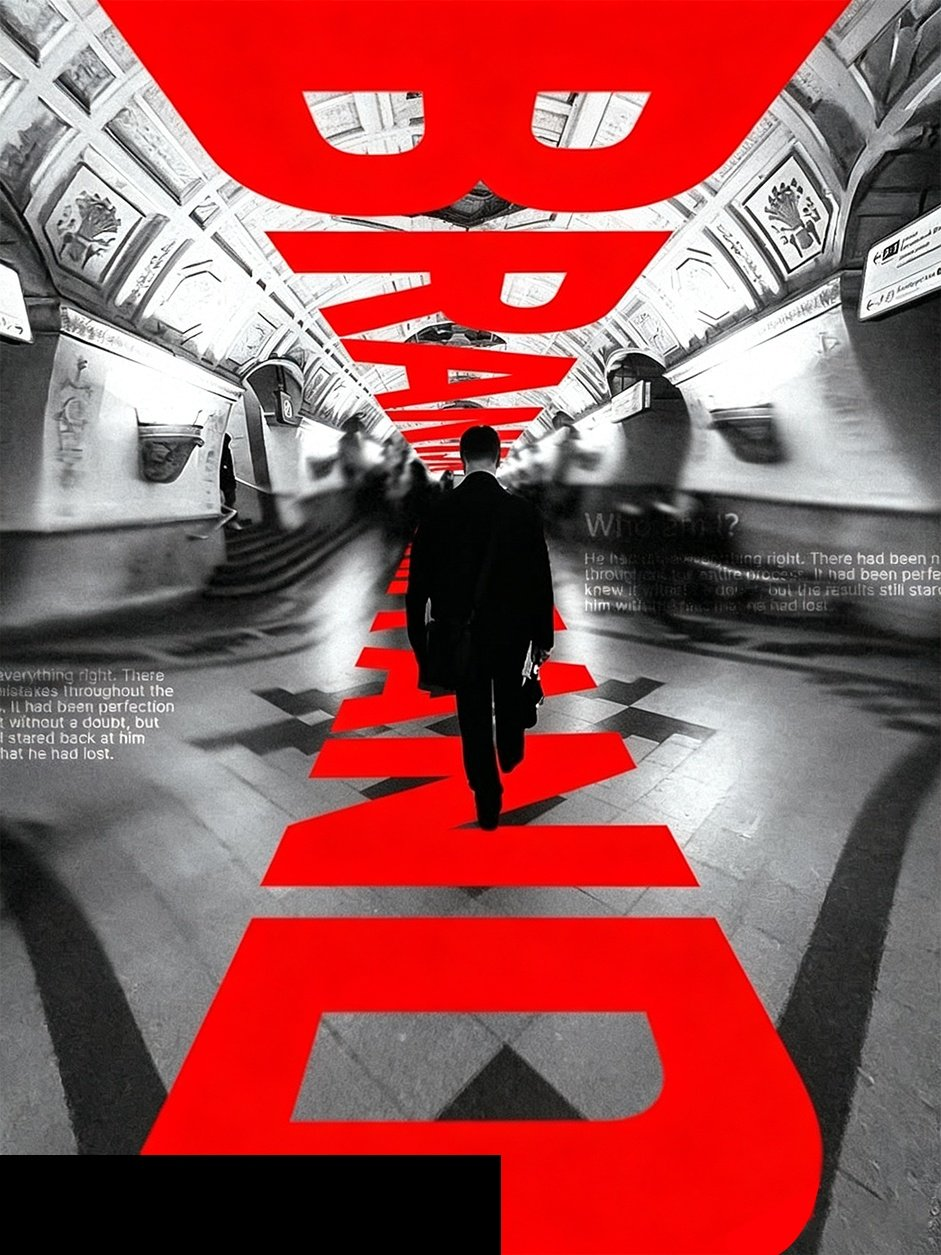
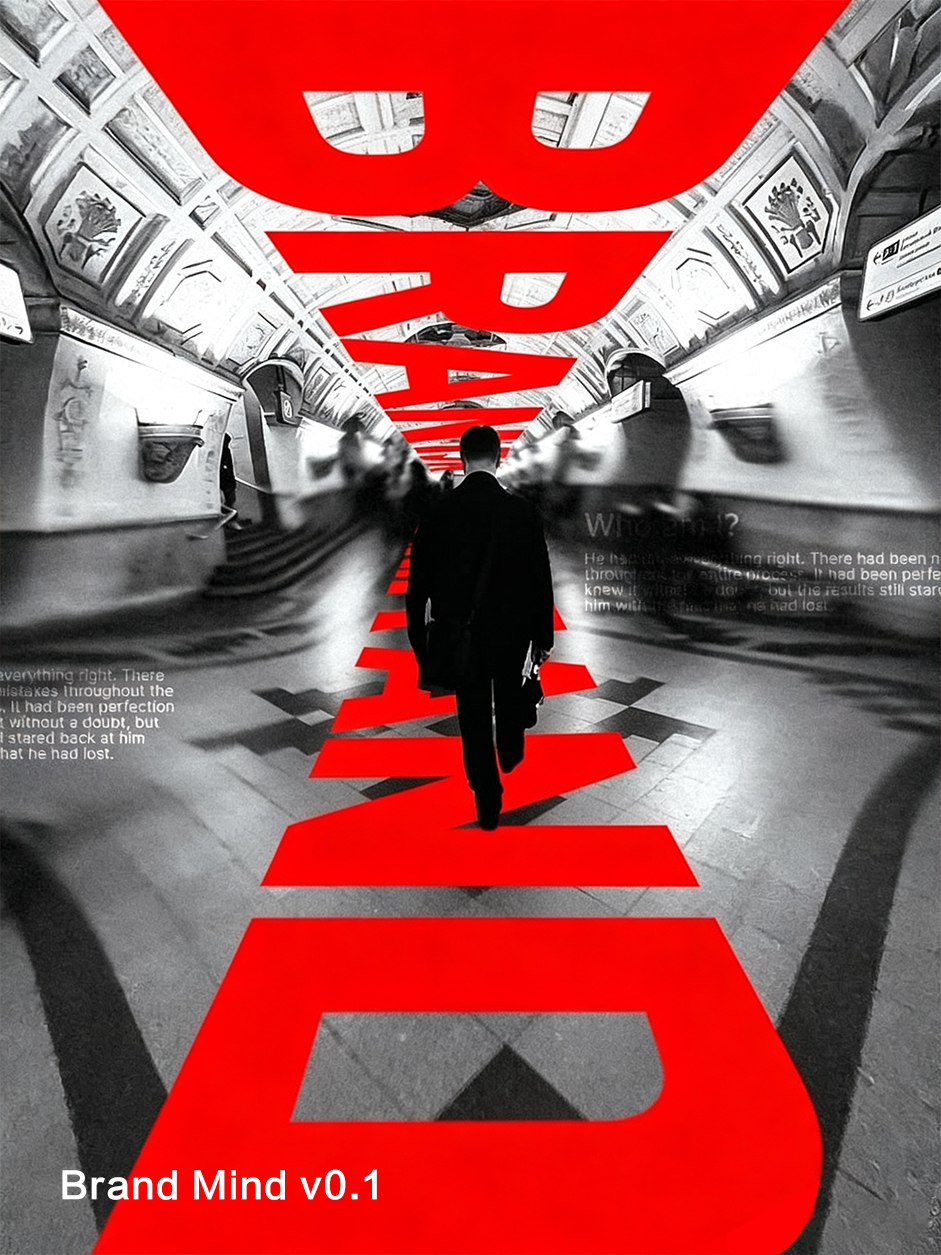
Major update: fix flash, share screenshot, deeper page, restore cover, QR code

Changed region(s): [[0.0, 0.9012, 0.5547, 1.0], [0.8321, 0.9944, 0.8629, 1.0]]

diff --git a/brand-mind/index.html b/brand-mind/index.html
@@ -352,12 +352,65 @@ h3 { font-size: 1.1rem; color: #E8E0D8; margin-bottom: 12px; }
 }
 
 .share-area { margin-top: 40px; text-align: center; }
+.share-area .btn-sm { margin-bottom: 12px; display: block; width: 200px; margin-left: auto; margin-right: auto; }
 .share-toast {
   font-size: 0.75rem; color: #666;
   margin-top: 10px; opacity: 0;
   transition: opacity 0.3s;
 }
 .share-toast.show { opacity: 1; }
+
+/* ===== RESULT QR ===== */
+.result-qr-area {
+  margin-top: 30px; text-align: center;
+  padding-top: 20px; border-top: 1px solid #222;
+}
+.result-qr {
+  width: 100px; height: 100px;
+  border-radius: 4px;
+  background: #fff; padding: 4px;
+}
+.result-qr-hint {
+  font-size: 0.65rem; color: #555;
+  margin-top: 8px; letter-spacing: 0.1em;
+  font-family: "Courier New", monospace;
+}
+
+/* ===== DEEPER SCREEN ===== */
+#deeper-screen {
+  justify-content: center; align-items: center;
+  text-align: center; position: relative;
+}
+.deeper-back {
+  position: absolute; top: 24px; left: 24px;
+  font-size: 1.5rem; color: #E8E0D8;
+  cursor: pointer; z-index: 10;
+  transition: color 0.3s;
+}
+.deeper-back:hover { color: #FF0000; }
+.deeper-content {
+  display: flex; flex-direction: column;
+  align-items: center; max-width: 320px;
+}
+.deeper-text {
+  font-size: 0.95rem; color: #E8E0D8;
+  line-height: 2.2; letter-spacing: 0.05em;
+  margin-bottom: 40px;
+  font-family: "Noto Serif SC", serif;
+}
+.deeper-keywords {
+  color: #FF0000; font-weight: 500;
+}
+.deeper-qr {
+  width: 160px; height: 160px;
+  background: #fff; padding: 8px;
+  border-radius: 6px;
+}
+.deeper-qr-hint {
+  font-size: 0.7rem; color: #555;
+  margin-top: 12px; letter-spacing: 0.2em;
+  font-family: "Courier New", monospace;
+}
 
 /* ===== PROGRESS BAR ===== */
 #progress-bar {
@@ -456,14 +509,30 @@ h3 { font-size: 1.1rem; color: #E8E0D8; margin-bottom: 12px; }
 
   <!-- RESULT -->
   <div class="screen" id="result-screen">
-    <img class="result-portrait" id="result-img" src="" alt="">
-    <div class="result-id" id="result-id"></div>
-    <div class="result-name" id="result-name"></div>
-    <div class="result-tagline" id="result-tagline"></div>
-    <div id="result-body"></div>
+    <div id="result-card">
+      <img class="result-portrait" id="result-img" src="" alt="">
+      <div class="result-id" id="result-id"></div>
+      <div class="result-name" id="result-name"></div>
+      <div class="result-tagline" id="result-tagline"></div>
+      <div id="result-body"></div>
+      <div class="result-qr-area">
+        <img src="./img/qrcode-wechat.png" class="result-qr" alt="QR">
+        <div class="result-qr-hint">扫码测试你的品牌心智原型</div>
+      </div>
+    </div>
     <div class="share-area">
-      <button class="btn btn-sm" onclick="shareResult()">复制分享文案</button>
-      <div class="share-toast" id="share-toast">已复制到剪贴板</div>
+      <button class="btn btn-sm" onclick="shareResult()">测试结果分享</button>
+      <button class="btn btn-sm" onclick="showScreen('deeper-screen')">继续深入</button>
+    </div>
+  </div>
+
+  <!-- DEEPER -->
+  <div class="screen" id="deeper-screen">
+    <div class="deeper-back" onclick="showScreen('result-screen')">←</div>
+    <div class="deeper-content">
+      <div class="deeper-text">与 Brand Fable 创始人 Felix，<br>一起深入探索关于你心智里的那些<br><span class="deeper-keywords">【创业】、【自我】、【产品】与【品牌】</span>。</div>
+      <img src="./img/qrcode-wechat.png" class="deeper-qr" alt="WeChat QR">
+      <div class="deeper-qr-hint">SCAN TO CONNECT</div>
     </div>
   </div>
 </div>
@@ -1146,12 +1215,19 @@ function showQuestion(qIndex) {
   }
   
   if (isAlreadyOnQuestionScreen) {
-    // 同一个 screen 内切换：先淡出再淡入
-    qContent.classList.add('fade-out');
-    setTimeout(() => {
+    // 同一个 screen 内切换
+    if (qContent.classList.contains('fade-out')) {
+      // 已经淡出了（从 data overlay 来），直接渲染新内容然后淡入
       renderQuestion();
-      qContent.classList.remove('fade-out');
-    }, 420);
+      setTimeout(() => qContent.classList.remove('fade-out'), 50);
+    } else {
+      // 手动触发淡出再淡入
+      qContent.classList.add('fade-out');
+      setTimeout(() => {
+        renderQuestion();
+        qContent.classList.remove('fade-out');
+      }, 420);
+    }
   } else {
     // 从其他 screen 切换过来
     renderQuestion();
@@ -1210,8 +1286,14 @@ function showDataOverlay(text, callback) {
 function dismissDataOverlay() {
   const overlay = document.getElementById('data-overlay');
   const callback = overlay._callback;
+  // 先让题目内容淡出，避免闪现旧题
+  const qContent = document.getElementById('q-content');
+  if (qContent) qContent.classList.add('fade-out');
   overlay.style.opacity = '0';
-  setTimeout(() => { overlay.style.display = 'none'; if (callback) callback(); }, 400);
+  setTimeout(() => {
+    overlay.style.display = 'none';
+    if (callback) callback();
+  }, 400);
 }
 
 function advanceQuestion() {
@@ -1290,24 +1372,33 @@ function showResult() {
 }
 
 function shareResult() {
-  const archetypeName = resolveArchetype();
-  const arch = archetypes[archetypeName];
-  
-  const text = `我在「品牌心智标本馆」完成了心智切片——\n\n我的原型是：「${archetypeName}」\n${arch.tagline}\n\n${arch.quote}\n\n来测测你是什么品牌心智原型 →`;
-  
-  navigator.clipboard.writeText(text).then(() => {
-    const toast = document.getElementById('share-toast');
-    toast.classList.add('show');
-    setTimeout(() => toast.classList.remove('show'), 2000);
-  }).catch(() => {
-    // Fallback
-    const ta = document.createElement('textarea');
-    ta.value = text; document.body.appendChild(ta);
-    ta.select(); document.execCommand('copy');
-    document.body.removeChild(ta);
-    const toast = document.getElementById('share-toast');
-    toast.classList.add('show');
-    setTimeout(() => toast.classList.remove('show'), 2000);
+  const card = document.getElementById('result-card');
+  // 使用 html2canvas 截图
+  if (typeof html2canvas === 'undefined') {
+    // 动态加载 html2canvas
+    const script = document.createElement('script');
+    script.src = 'https://cdn.jsdelivr.net/npm/html2canvas@1.4.1/dist/html2canvas.min.js';
+    script.onload = () => captureAndShare(card);
+    document.head.appendChild(script);
+  } else {
+    captureAndShare(card);
+  }
+}
+
+function captureAndShare(element) {
+  html2canvas(element, {
+    backgroundColor: '#000',
+    scale: 2,
+    useCORS: true
+  }).then(canvas => {
+    // 转为图片并弹出保存
+    const link = document.createElement('a');
+    link.download = 'brand-mind-result.png';
+    link.href = canvas.toDataURL('image/png');
+    link.click();
+  }).catch(err => {
+    console.warn('Screenshot failed:', err);
+    alert('截图失败，请长按屏幕截图保存');
   });
 }
 
